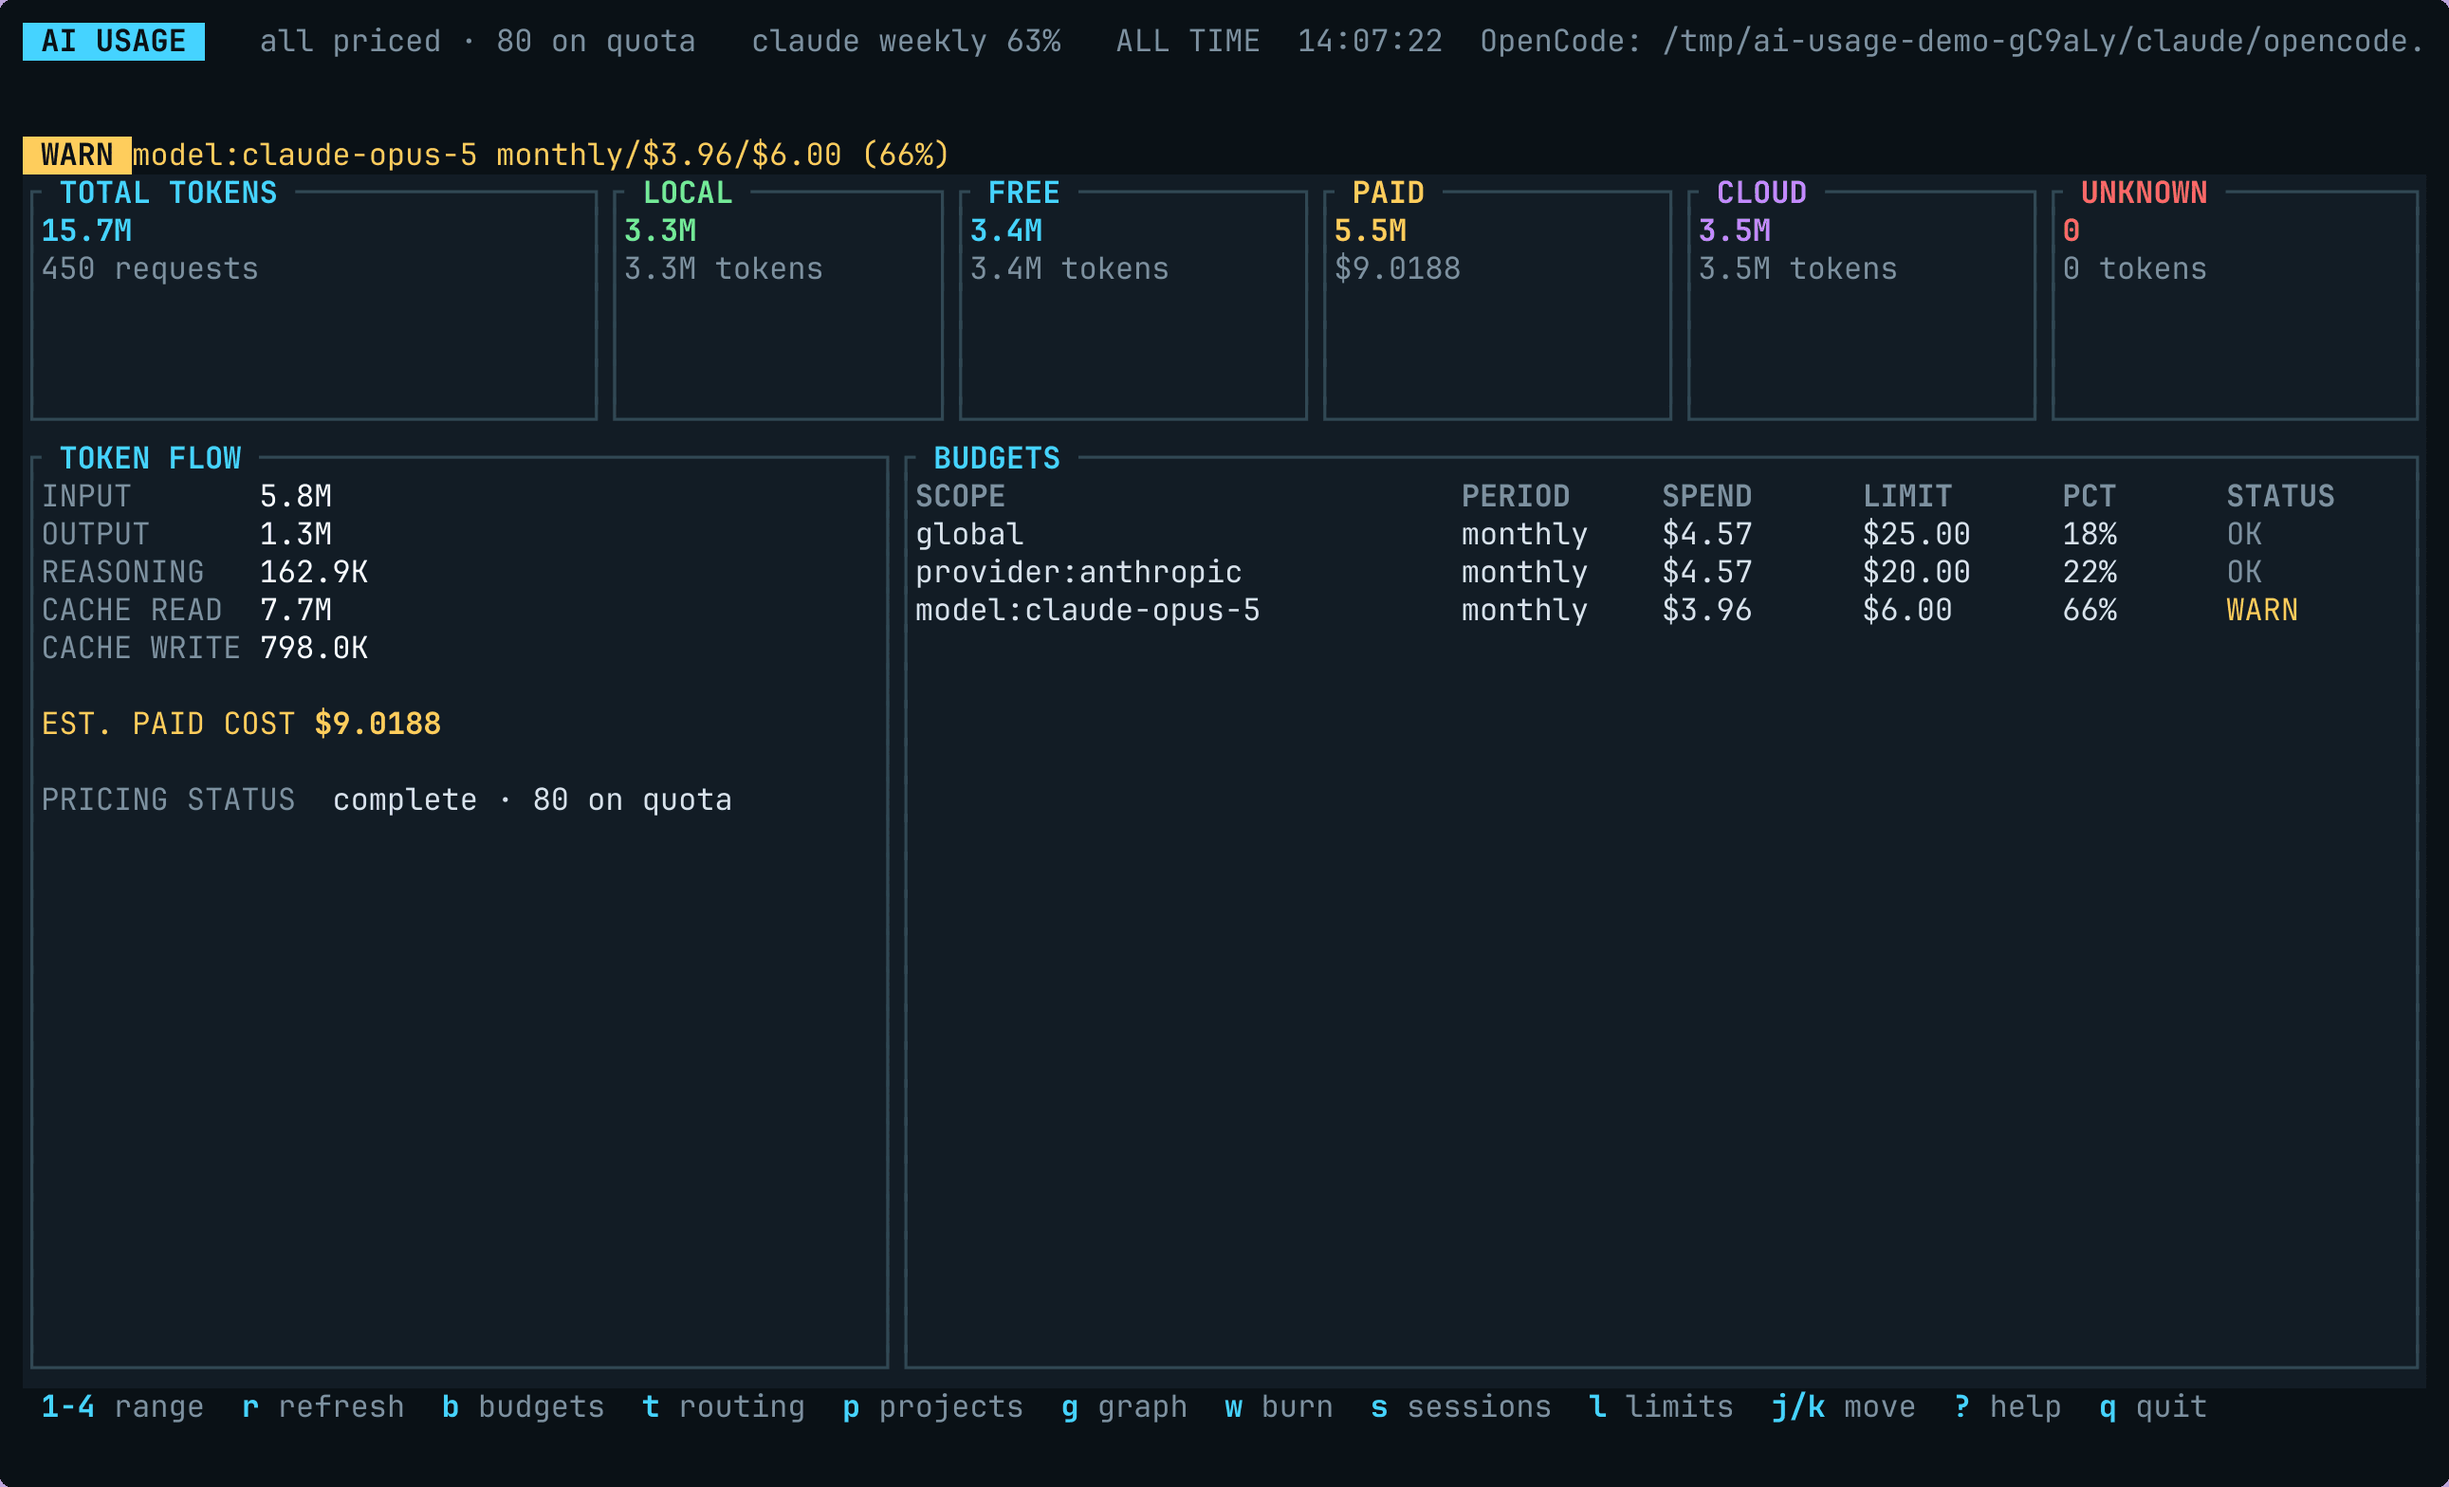
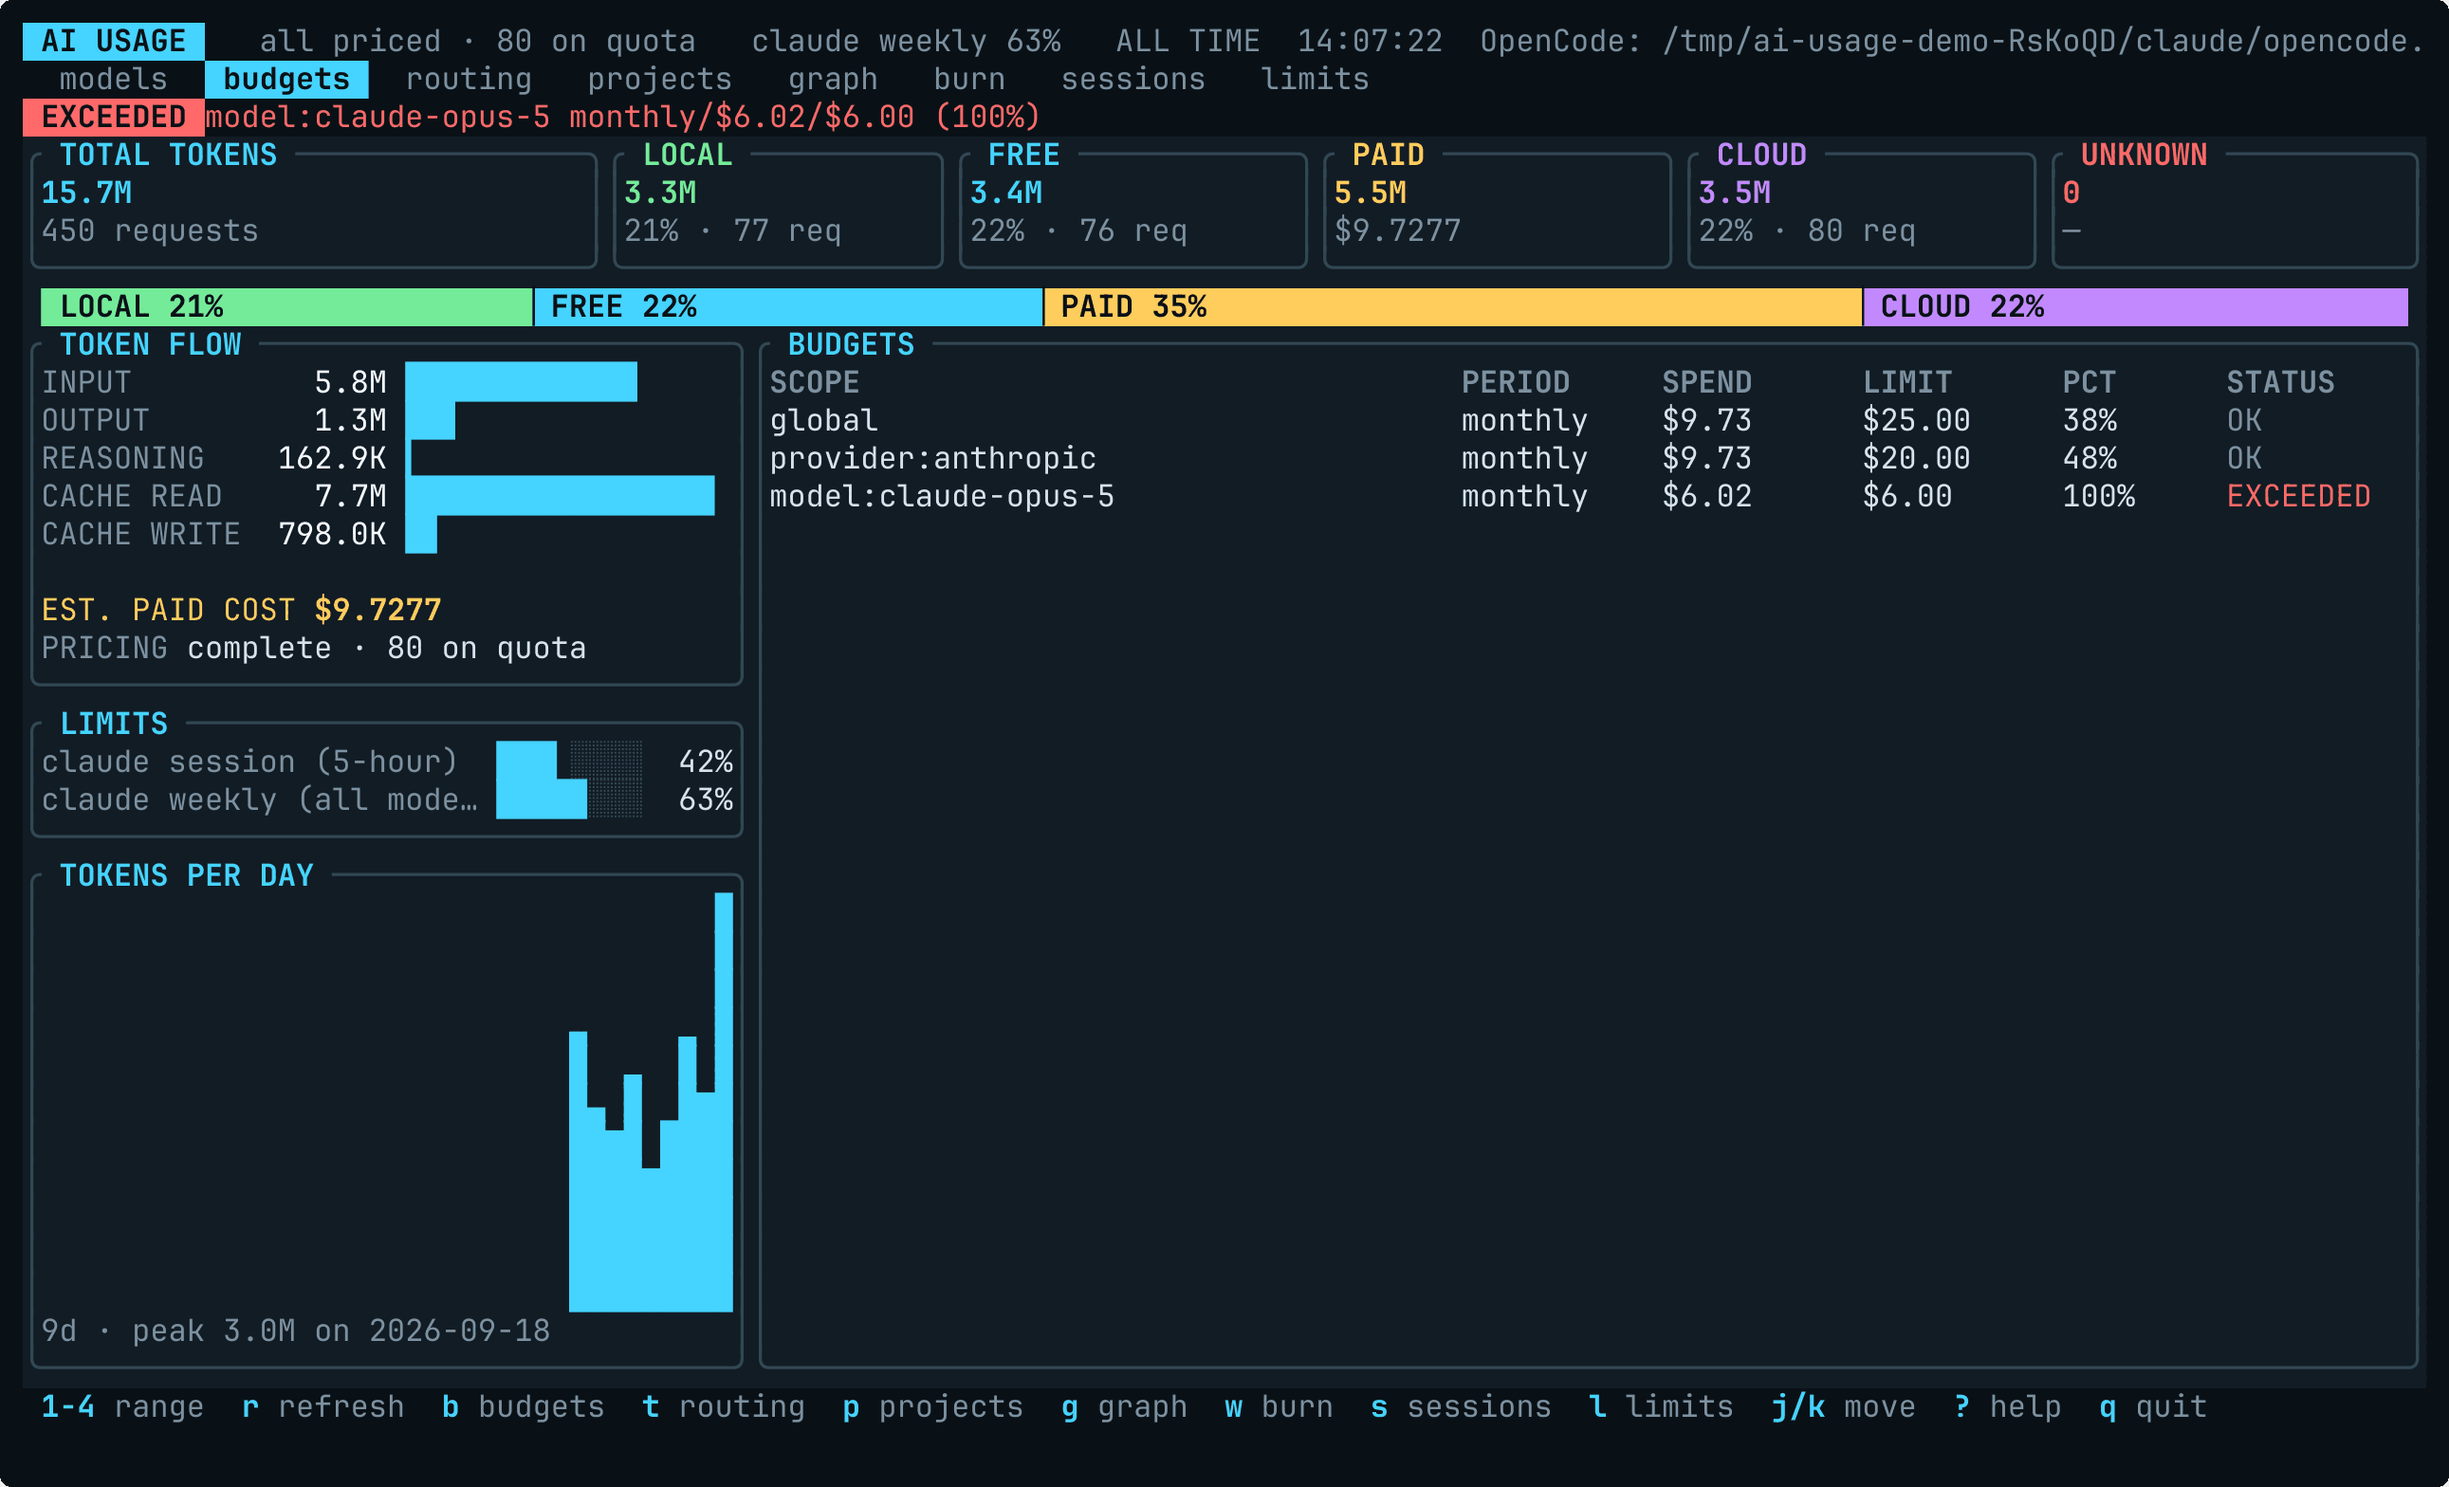
docs: the reworked dashboard, in the changelog, the README and its images
The rail also leaves out the section the open panel already shows in full:
the same limit windows twice on one screen reads as two sources. The limits
panel's bars and the day table's take the accent the rail's meters use.

Images regenerated with scripts/render-readme-screenshots.sh.

diff --git a/src/ui/panels/breakdown.rs b/src/ui/panels/breakdown.rs
@@ -21,7 +21,7 @@ use ratatui::{
 };
 
 use crate::model::{CYAN, YELLOW};
-use crate::ui::app::App;
+use crate::ui::app::{App, Panel};
 use crate::ui::panels::limits::{figure_style, truncate};
 use crate::ui::panels::timeseries::tokens_sparkline;
 use crate::ui::theme::{bar_of, meter, panel, MUTED};
@@ -38,8 +38,14 @@ pub fn draw_breakdown(frame: &mut Frame, area: Rect, app: &App) {
     if flow.len() as u16 + 2 > area.height {
         flow.retain(|line| line.width() > 0);
     }
-    let limits = limit_lines(app, inner_width);
-    let has_days = app.daily().iter().any(|day| day.tokens > 0);
+    // A section the right-hand pane is already showing in full is left out: the same windows
+    // twice on one screen is not more information, and it reads as two sources.
+    let limits = if app.panel == Panel::Limits {
+        Vec::new()
+    } else {
+        limit_lines(app, inner_width)
+    };
+    let has_days = app.panel != Panel::TimeSeries && app.daily().iter().any(|day| day.tokens > 0);
 
     // Each section with the height it needs, borders included. The token list is first and is
     // always drawn; the others are dropped from the end until what is left fits.

diff --git a/src/ui/panels/limits.rs b/src/ui/panels/limits.rs
@@ -98,7 +98,16 @@ fn window_line<'a>(snapshot: &LimitsSnapshot, window: &LimitWindow) -> Line<'a> 
     Line::from(vec![
         Span::styled(format!("{:<9} ", snapshot.agent), muted),
         Span::styled(format!("{:<28} ", truncate(&window.label, 28)), figure),
-        Span::styled(format!("{:<12} ", bar(window.fraction, 1.0)), figure),
+        // Plain figures are unstyled text; the bar beside them takes the accent the rail's
+        // meters use, and follows `figure` when that says stale or alarming.
+        Span::styled(
+            format!("{:<12} ", bar(window.fraction, 1.0)),
+            if figure == Style::default() {
+                Style::default().fg(CYAN)
+            } else {
+                figure
+            },
+        ),
         Span::styled(
             format!("{:>4}%  ", window.percent_used().round() as u64),
             figure,

diff --git a/src/ui/tests/layout.rs b/src/ui/tests/layout.rs
@@ -202,6 +202,21 @@ fn a_stale_window_is_not_alarming_in_the_rail_or_the_panel() {
     assert_ne!(panel(&app), Some(crate::model::RED));
 }
 
+/// The same windows twice on one screen reads as two sources that happen to agree.
+#[test]
+fn the_rail_leaves_out_what_the_open_panel_already_shows() {
+    let mut app = rail_app();
+    app.panel = Panel::Limits;
+    let rendered = render_breakdown(&app, 40, 30);
+    assert!(!rendered.contains("92%"), "{rendered}");
+    assert!(rendered.contains("TOKENS PER DAY"), "{rendered}");
+
+    app.panel = Panel::TimeSeries;
+    let rendered = render_breakdown(&app, 40, 30);
+    assert!(rendered.contains("92%"), "{rendered}");
+    assert!(!rendered.contains("TOKENS PER DAY"), "{rendered}");
+}
+
 #[test]
 fn a_rail_with_no_limits_and_no_days_is_just_the_token_list() {
     let app = test_app(Vec::new());

diff --git a/src/ui/panels/timeseries.rs b/src/ui/panels/timeseries.rs
@@ -101,7 +101,7 @@ fn day_table(days: &[DayTotals], height: usize) -> Table<'_> {
         };
         Row::new(vec![
             Cell::from(day.day.clone()),
-            Cell::from(bar(day.cost, peak)),
+            Cell::from(Span::styled(bar(day.cost, peak), Style::default().fg(CYAN))),
             Cell::from(format_count(day.tokens)),
             cost,
             Cell::from(day.requests.to_string()),

diff --git a/CHANGELOG.md b/CHANGELOG.md
@@ -4,6 +4,17 @@
 
 ### Added
 
+- **A terminal is sent the colours it says it can draw.** The palette is 24-bit and went to
+  every terminal as such; one that does not understand the sequence draws whatever it makes of
+  it. The depth is now read once at startup -- `COLORTERM`, then `WT_SESSION`, then `TERM` -- and
+  anything short of 24-bit has the finished frame mapped down in a single pass, as `NO_COLOR`
+  is, so a new panel cannot forget it. 256 colours take each colour's nearest neighbour; this
+  tier exists because `ssh` and `sudo` drop `COLORTERM` and keep `TERM`. Sixteen map the named
+  palette by meaning, so muted text and borders do not land on one grey, leave the backgrounds
+  to the terminal, and draw white text in the default foreground so a light theme can read it.
+  `--doctor` prints the depth chosen and the variable it came from. If a terminal that does
+  support 24-bit colour looks flatter than it did, set `COLORTERM=truecolor`.
+
 - **`--install-hook` and `--install-statusline` put this tool into Claude Code's settings;
   `--uninstall-hook`, `--uninstall-statusline` and `--uninstall` take it out.** Routing
   analytics, the feature nothing else here has, sat behind a hand-run `jq -s '.[0] * .[1]'`
@@ -71,6 +82,27 @@
 
 ### Changed
 
+- **The dashboard uses the screen it has.** The six tiles were seven rows tall for two lines of
+  text, and four of them spent the second line repeating the first (`3.3M` over `3.3M tokens`);
+  TOKEN FLOW held a third of the width for nine lines with everything under it empty; nothing
+  said which of the eight panels was showing; and the default view drew no proportion anywhere,
+  so "which category, which model" meant comparing `2.5M` with `688.6K` by eye. Now a tab strip
+  under the header names every panel and marks the active one -- built from the footer hints in
+  the bindings table, so it cannot drift from them, and in reverse video, so `NO_COLOR` cannot
+  unmark it. The tiles are four rows and say each category's share and request count; a category
+  with no tokens says `—`, never `0%`, and a share that rounds to nothing says `<1%`. Under them
+  one strip divides the width between the categories: a category with usage always gets a cell,
+  one without never does. The left pane is a rail -- the token list with a bar per kind, a meter
+  per subscription window under the limits panel's own stale-and-alarming rule, and tokens per
+  day (tokens, because on a subscription a chart of dollars is a flat line that reads as nothing
+  happening). A rail section that does not fit whole is not drawn, last first, instead of being
+  squeezed to a border around nothing. Tables colour the CLASS cell, draw a bar beside TOKENS
+  when the pane is wide enough to spare it, say how many rows they hold, and show a scrollbar
+  only when rows are off screen. Borders are rounded. The layout is not a stable surface
+  (`docs/stability.md`); nothing a script reads has changed.
+- **`API-RATE EQUIV.` is two lines.** On one it was wider than its pane on most terminals, and
+  what a `Paragraph` cut off without saying so was `not billed` -- the half that stops the
+  figure reading as a charge.
 - **JSON objects keep the order their keys were written in.** `serde_json` now builds with
   `preserve_order`, which the installers need to hand a user's `settings.json` back as they found
   it. The visible effect elsewhere: a document built key by key (`--check-budgets`, the

diff --git a/README.md b/README.md
@@ -657,9 +657,12 @@ The dashboard refreshes every 30 seconds by default. OpenCode, Claude Code,
 Codex, and journal collectors run in the background at their configured
 intervals.
 
-The main view combines summary metrics, token-flow breakdown, and per-model
-activity. One other panel occupies the right-hand pane at a time; `?` lists every
-key.
+The main view has a tile per category with a strip under them dividing the
+tokens between the categories, a left rail, and per-model activity. The rail
+holds the token-flow breakdown, a meter for each subscription window, and
+tokens per day; on a short terminal it drops whole sections from the bottom
+rather than squeezing them. One other panel occupies the right-hand pane at a
+time, the tab strip under the header says which, and `?` lists every key.
 
 | View | Key | What it answers |
 | --- | --- | --- |
